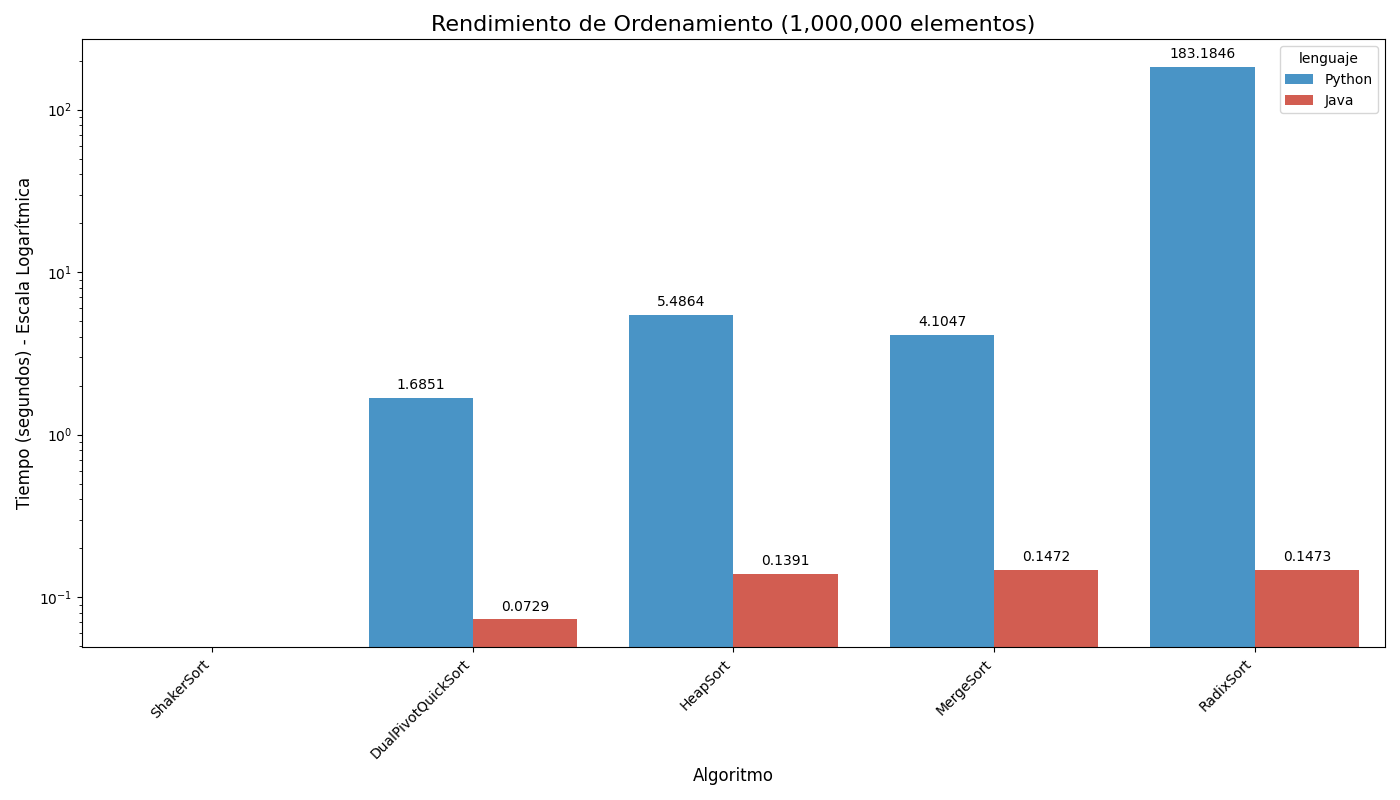
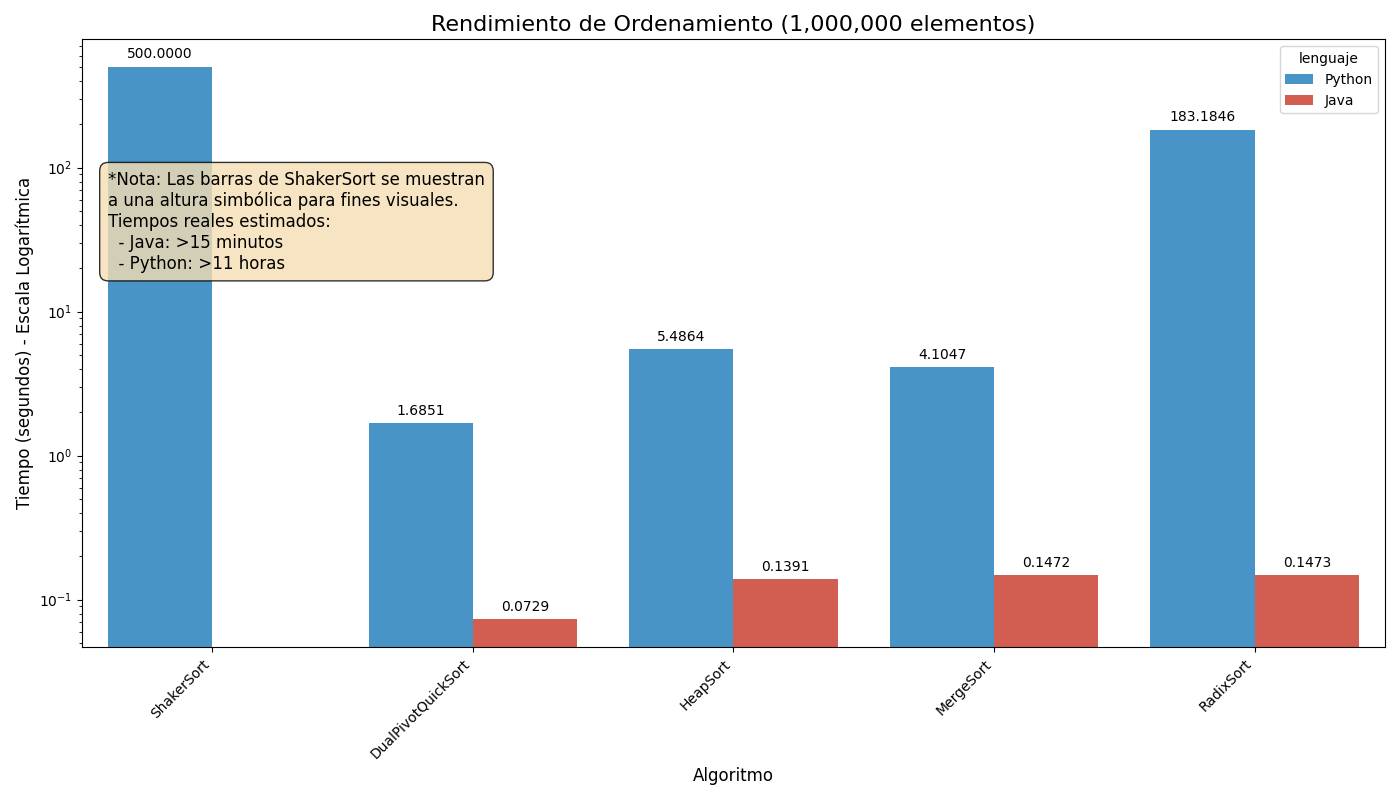
Add: algorithm conlusions

diff --git a/crear_graficos.py b/crear_graficos.py
@@ -1,17 +1,22 @@
 import pandas as pd
 import matplotlib.pyplot as plt
 import seaborn as sns
+import os
+import numpy as np 
 
-print("📊 Creando todos los gráficos comparativos...")
+print("Creando todos los gráficos comparativos...")
 
-# --- Carga y limpieza de datos (se hace una sola vez) ---
 
 # Ordenamiento
 df_python_ord = pd.read_csv("results/tiempos_ordenamiento_python.csv")
 df_java_ord = pd.read_csv("results/tiempos_ordenamiento_java.csv", delimiter=';', decimal=',')
 df_ordenamiento = pd.concat([df_python_ord, df_java_ord]).reset_index(drop=True)
 df_ordenamiento['tiempo'] = pd.to_numeric(df_ordenamiento['tiempo'], errors='coerce')
-df_ordenamiento.dropna(subset=['tiempo'], inplace=True)
+
+
+df_ordenamiento.replace([np.inf, -np.inf], np.nan, inplace=True)
+placeholder_time = 500
+df_ordenamiento.fillna({'tiempo': placeholder_time}, inplace=True)
 
 # Búsqueda
 df_python_busq = pd.read_csv("results/tiempos_busqueda_python.csv")
@@ -20,37 +25,48 @@ df_busqueda = pd.concat([df_python_busq, df_java_busq]).reset_index(drop=True)
 df_busqueda['tiempo'] = pd.to_numeric(df_busqueda['tiempo'], errors='coerce')
 df_busqueda.dropna(subset=['tiempo'], inplace=True)
 
-
 # Tamaños que vamos a graficar
 tamaños = [10000, 100000, 1000000]
 
-# --- Bucle para generar los gráficos de ORDENAMIENTO ---
+# Crear la carpeta para los gráficos si no existe
+if not os.path.exists("results/graphics"):
+    os.makedirs("results/graphics")
+
+
 for tam in tamaños:
-    # Filtramos los datos para el tamaño actual
     df_filtrado = df_ordenamiento[df_ordenamiento['tamaño'] == tam]
     
     plt.figure(figsize=(14, 8))
-    ax = sns.barplot(x="algoritmo", y="tiempo", hue="lenguaje", data=df_filtrado, palette=["#3498db", "#e74c3c"])
+    palette = {"Python": "#3498db", "Java": "#e74c3c"}
+    ax = sns.barplot(x="algoritmo", y="tiempo", hue="lenguaje", data=df_filtrado, palette=palette)
     
-    # --- ¡LA SOLUCIÓN A LA ESCALA! ---
-    # Usamos escala logarítmica para poder ver las barras de Java
     plt.yscale('log')
-    
     plt.ylabel("Tiempo (segundos) - Escala Logarítmica", fontsize=12)
     plt.xlabel("Algoritmo", fontsize=12)
     plt.title(f"Rendimiento de Ordenamiento ({tam:,} elementos)", fontsize=16)
     plt.xticks(rotation=45, ha='right')
 
     for p in ax.patches:
-        if p.get_height() > 0: # Solo anotar si la barra es visible
+        if p.get_height() > 0:
             valor = f"{p.get_height():.4f}"
             ax.annotate(valor, (p.get_x() + p.get_width() / 2., p.get_height()), ha='center', va='center', xytext=(0, 9), textcoords='offset points', fontsize=10)
 
+    if tam == 1000000:
+        plt.text(0.02, 0.7,
+                 '*Nota: Las barras de ShakerSort se muestran\n'
+                 'a una altura simbólica para fines visuales.\n'
+                 'Tiempos reales estimados:\n'
+                 '  - Java: >15 minutos\n'
+                 '  - Python: >11 horas',
+                 transform=plt.gca().transAxes,
+                 fontsize=12,
+                 verticalalignment='center',
+                 bbox=dict(boxstyle='round,pad=0.5', fc='wheat', alpha=0.8))
+
     plt.tight_layout()
-    # Guardamos el archivo con un nombre único para cada tamaño
     ruta_guardado = f"results/graphics/grafico_ordenamiento_{tam}.png"
     plt.savefig(ruta_guardado)
-    print(f"✅ Gráfico de ordenamiento para {tam} guardado en '{ruta_guardado}'")
+    print(f" Gráfico de ordenamiento para {tam} guardado en '{ruta_guardado}'")
     plt.close()
 
 # --- Bucle para generar los gráficos de BÚSQUEDA ---
@@ -65,11 +81,14 @@ for tam in tamaños:
     plt.title(f"Rendimiento de Búsqueda ({tam:,} elementos)", fontsize=16)
 
     for p in ax.patches:
-        valor = f"{p.get_height():.8f}"
-        ax.annotate(valor, (p.get_x() + p.get_width() / 2., p.get_height()), ha='center', va='center', xytext=(0, 9), textcoords='offset points', fontsize=10)
+        if not pd.isna(p.get_height()):
+            valor = f"{p.get_height():.8f}"
+            ax.annotate(valor, (p.get_x() + p.get_width() / 2., p.get_height()), ha='center', va='center', xytext=(0, 9), textcoords='offset points', fontsize=10)
 
     plt.tight_layout()
     ruta_guardado = f"results/graphics/grafico_busqueda_{tam}.png"
     plt.savefig(ruta_guardado)
-    print(f"✅ Gráfico de búsqueda para {tam} guardado en '{ruta_guardado}'")
+    print(f"Gráfico de búsqueda para {tam} guardado en '{ruta_guardado}'")
     plt.close()
+
+print("\nProceso completado")

diff --git a/src/java/MainBusqueda.java b/src/java/MainBusqueda.java
@@ -1,6 +1,6 @@
 import java.io.File;
 import java.io.FileNotFoundException;
-import java.io.PrintWriter; // <-- Importamos la herramienta para escribir
+import java.io.PrintWriter; 
 import java.util.ArrayList;
 import java.util.Arrays;
 import java.util.List;
@@ -8,7 +8,6 @@ import java.util.Scanner;
 
 public class MainBusqueda {
 
-    // El método leerDatos no cambia
     public static int[] leerDatos(String archivo) throws FileNotFoundException {
         List<Integer> numeros = new ArrayList<>();
         Scanner scanner = new Scanner(new File(archivo));
@@ -26,17 +25,15 @@ public class MainBusqueda {
 
     public static void main(String[] args) throws FileNotFoundException {
         // Los mensajes de estado van a la consola de error
-        System.err.println("🚀 Iniciando benchmarks de BÚSQUEDA en Java...");
+        System.err.println("Iniciando benchmarks de BÚSQUEDA en Java...");
         
         String[] nombresAlgoritmos = {"BinarySearch", "JumpSearch", "TernarySearch"};
         int[] tamaños = {10000, 100000, 1000000};
         int elementoABuscar = -1;
         int repeticiones = 100;
 
-        // Usamos try-with-resources para crear y gestionar el archivo de salida
         try (PrintWriter writer = new PrintWriter("results/tiempos_busqueda_java.csv")) {
             
-            // Escribimos el encabezado en el archivo con punto y coma
             writer.println("algoritmo;lenguaje;tamaño;tiempo");
 
             for (int tam : tamaños) {
@@ -61,12 +58,11 @@ public class MainBusqueda {
                     long endTime = System.nanoTime();
                     double tiempoTotalPromedio = ((double)(endTime - startTime) / repeticiones) / 1e9;
 
-                    // Escribimos la línea de resultado en el archivo con punto y coma
                     writer.println(String.format("%s;Java;%d;%.8f", nombreAlg, tam, tiempoTotalPromedio));
                 }
             }
-        } // El archivo se guarda y cierra solo
+        } 
 
-        System.err.println("\n🎉 ¡Benchmarks de búsqueda en Java finalizados! Archivo CSV generado.");
+        System.err.println("\n¡Benchmarks de búsqueda en Java finalizados! Archivo CSV generado.");
     }
 }

diff --git a/src/java/MainOrdenamiento.java b/src/java/MainOrdenamiento.java
@@ -18,7 +18,6 @@ public class MainOrdenamiento {
         }
         scanner.close();
         
-        // Convertir la lista a un arreglo de enteros primitivos
         int[] arr = new int[numeros.size()];
         for (int i = 0; i < numeros.size(); i++) {
             arr[i] = numeros.get(i);
@@ -27,16 +26,13 @@ public class MainOrdenamiento {
     }
 
     public static void main(String[] args) throws FileNotFoundException {
-        // Usamos System.err para los mensajes de estado, que seguirán saliendo en la consola
         System.err.println("Iniciando benchmarks de ORDENAMIENTO en Java...");
         
         String[] nombresAlgoritmos = {"ShakerSort", "DualPivotQuickSort", "HeapSort", "MergeSort", "RadixSort"};
         int[] tamaños = {10000, 100000, 1000000};
         
-        // 2. Usamos un "try-with-resources" para crear el archivo y asegurarnos de que se cierre solo.
         try (PrintWriter writer = new PrintWriter("results/tiempos_ordenamiento_java.csv")) {
             
-            // 3. Escribimos el encabezado directamente en el archivo.
             writer.println("algoritmo;lenguaje;tamaño;tiempo");
             for (int tam : tamaños) {
                 String rutaArchivo = String.format("data/datos_%d.txt", tam);
@@ -66,10 +62,9 @@ public class MainOrdenamiento {
                     long endTime = System.nanoTime();
                     double tiempoTotal = (endTime - startTime) / 1e9;
 
-                    // 4. En lugar de System.out, usamos writer.println para guardar en el archivo.
                     writer.println(String.format("%s;Java;%d;%.4f", nombreAlg, tam, tiempoTotal));                }
             }
-        } // El archivo se guarda y cierra automáticamente aquí.
+        } 
 
         System.err.println("\n¡Benchmarks en Java finalizados! Archivo CSV generado.");
     }

diff --git a/main_ordenamiento.py b/main_ordenamiento.py
@@ -9,7 +9,7 @@ def leer_datos(archivo):
         return [int(line.strip()) for line in f]
 
 # --- Bucle principal para medir tiempos ---
-print("🚀 Iniciando benchmarks de ORDENAMIENTO en Python...")
+print("Iniciando benchmarks de ORDENAMIENTO en Python...")
 
 resultados = []
 # Diccionario que asocia el nombre del algoritmo con su función
@@ -31,7 +31,7 @@ for tam in tamaños:
     for nombre, funcion_sort in algoritmos.items():
 
         if nombre == "ShakerSort" and tam == 1000000:
-            print(f"  ❌ {nombre}: Omitido por ser demasiado lento (estimado > 10 horas)")
+            print(f" {nombre}: Omitido por ser demasiado lento (estimado > 10 horas)")
             # Añadimos un resultado simbólico para que el CSV quede completo
             resultados.append({
                 "algoritmo": nombre,
@@ -48,7 +48,7 @@ for tam in tamaños:
         end_time = time.perf_counter()
 
         tiempo_total = end_time - start_time
-        print(f"  ✅ {nombre}: {tiempo_total:.4f} segundos")
+        print(f" check : {nombre}: {tiempo_total:.4f} segundos")
         
         resultados.append({
             "algoritmo": nombre,
@@ -62,4 +62,4 @@ df_resultados = pd.DataFrame(resultados)
 ruta_csv = "results/tiempos_ordenamiento_python.csv"
 df_resultados.to_csv(ruta_csv, index=False)
 
-print(f"\n🎉 ¡Benchmarks finalizados! Resultados guardados en '{ruta_csv}'")
+print(f"\n¡Benchmarks finalizados! Resultados guardados en '{ruta_csv}'")

diff --git a/src/java/Busqueda.java b/src/java/Busqueda.java
@@ -1,6 +1,10 @@
 // Contenedor para los algoritmos de búsqueda
 public class Busqueda {
 
+//Fuente: https://www.geeksforgeeks.org/dsa/binary-search/
+
+
+
     public static int binarySearch(int arr[], int x) {
         int l = 0, r = arr.length - 1;
         while (l <= r) {
@@ -11,6 +15,8 @@ public class Busqueda {
         }
         return -1;
     }
+
+//Fuente: https://www.geeksforgeeks.org/dsa/jump-search/
 
     public static int jumpSearch(int arr[], int x) {
         int n = arr.length;
@@ -28,6 +34,8 @@ public class Busqueda {
         if (arr[prev] == x) return prev;
         return -1;
     }
+
+//Fuente: https://www.geeksforgeeks.org/dsa/ternary-search/
 
     public static int ternarySearch(int arr[], int x) {
         int l = 0, r = arr.length - 1;

diff --git a/main_busqueda.py b/main_busqueda.py
@@ -40,7 +40,7 @@ for tam in tamaños:
         # El tiempo total se divide por el número de repeticiones
         tiempo_promedio = (end_time - start_time) / 100
         
-        print(f"  ✅ {nombre}: {tiempo_promedio:.8f} segundos")
+        print(f" check : {nombre}: {tiempo_promedio:.8f} segundos")
         
         resultados_busqueda.append({
             "algoritmo": nombre,
